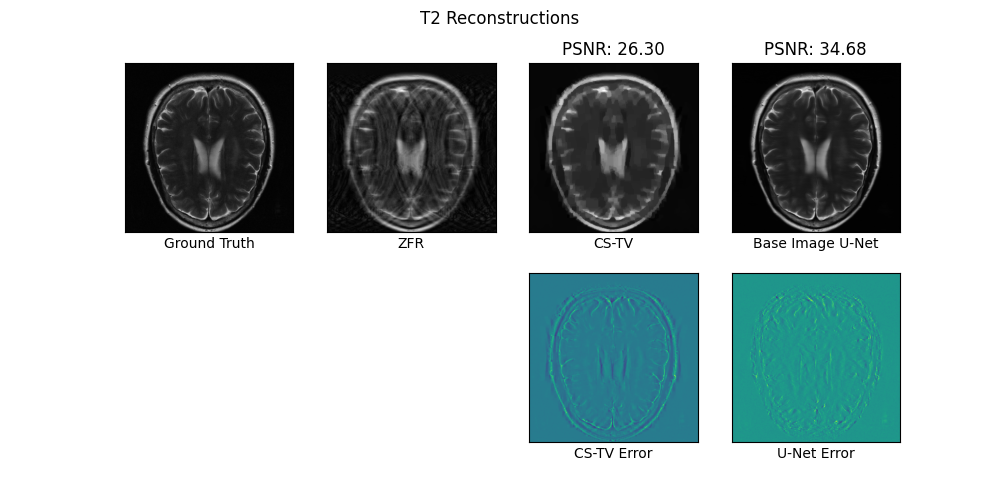
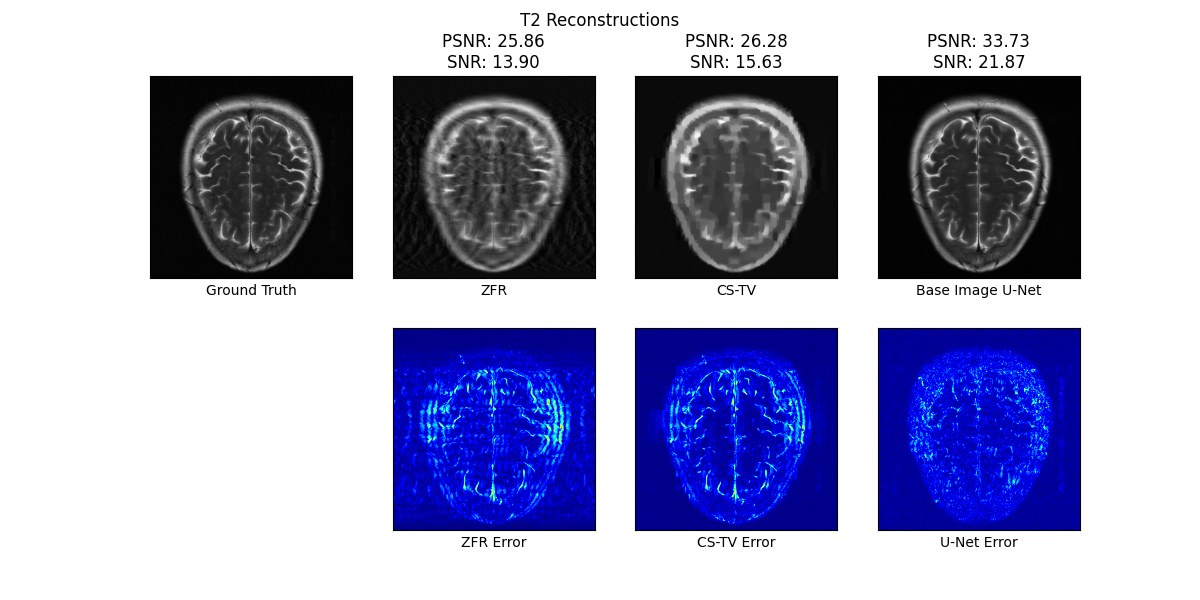
Many changes to improve plots

diff --git a/generate_test_plots.py b/generate_test_plots.py
@@ -17,11 +17,9 @@ def get_psnr(gt, pred):
     maxval = gt.max()
     return peak_signal_noise_ratio(gt, pred, data_range=maxval)
 
-def get_snr(a, axis=0, ddof=0):
-    a = np.asanyarray(a)
-    m = a.mean(axis)
-    sd = a.std(axis=axis, ddof=ddof)
-    return np.where(sd == 0, 0, m / sd)
+def get_snr(target, pred):
+    noise = np.abs(target - pred)
+    return 20*np.log10(np.mean(target)/np.mean(noise))
 
 # h5py.File(f'/home/bendel.8/Git_Repos/ComparisonStudy/pnp/out/{file_name}') as pnp_im, \
 data_dir = Path('/storage/fastMRI_brain/data/Matt_preprocessed_data/T2/singlecoil_test')
@@ -56,10 +54,9 @@ for fname in tqdm(list(data_dir.glob("*.h5"))):
             unet_im = transforms.center_crop(unet_im, crop_size)
 
         gt_max = target.max()
-        k = 5
+        k = 7
 
         fig = plt.figure(figsize=(12,6))
-        fig.colorbar()
         fig.suptitle('T2 Reconstructions')
         ax2 = fig.add_subplot(2, 4, 1)
         ax2.imshow(np.abs(target), cmap='gray', extent=[0, gt_max, 0, gt_max])
@@ -69,7 +66,7 @@ for fname in tqdm(list(data_dir.glob("*.h5"))):
 
         ax2 = fig.add_subplot(2, 4, 2)
         psnr = get_psnr(target, zfr)
-        snr = get_snr(zfr, axis=None)
+        snr = get_snr(target, zfr)
         ax2.set_title(f'PSNR: {psnr:.2f}\nSNR: {snr:.2f}')
         ax2.imshow(np.abs(zfr), cmap='gray', extent=[0, gt_max, 0, gt_max])
         ax2.set_xticks([])
@@ -78,7 +75,7 @@ for fname in tqdm(list(data_dir.glob("*.h5"))):
 
         ax3 = fig.add_subplot(2,4,3)
         psnr = get_psnr(target, recons)
-        snr = get_snr(recons, axis=None)
+        snr = get_snr(target, recons)
         ax3.set_title(f'PSNR: {psnr:.2f}\nSNR: {snr:.2f}')
         ax3.imshow(np.abs(recons), cmap='gray', extent=[0, gt_max, 0, gt_max])
         ax3.set_xticks([])
@@ -94,7 +91,7 @@ for fname in tqdm(list(data_dir.glob("*.h5"))):
 
         ax5 = fig.add_subplot(2, 4, 4)
         psnr = get_psnr(target, unet_im)
-        snr = get_snr(unet_im, axis=None)
+        snr = get_snr(target, unet_im)
         ax5.set_title(f'PSNR: {psnr:.2f}\nSNR: {snr:.2f}')
         ax5.imshow(np.abs(unet_im), cmap='gray', extent=[0, gt_max, 0, gt_max])
         ax5.set_xticks([])

diff --git a/eval.py b/eval.py
@@ -139,9 +139,9 @@ def save_histogram(metric_name, metric_list, method):
     x = np.array(metric_list)
     plt.hist(x, density=True,bins=30)
     if metric_name == 'PSNR':
-        plt.xlim(20, 50)
+        plt.xlim(20, 40)
     else:
-        plt.xlim(0,1)
+        plt.xlim(0.7,1)
     plt.title(f'Histogram of {metric_name} from {method} reconstructioon')
     plt.xlabel(metric_name)
     plt.ylabel('Frequency')
@@ -201,5 +201,5 @@ if __name__ == "__main__":
     metrics = evaluate(args, 'reconstruction_rss')
     print(metrics)
     get_avg_slice_time(args)
-    #save_histogram('PSNR', all_psnr, args.method)
-    save_histogram('SSIM', all_ssim, args.method)
+    save_histogram('PSNR', all_psnr, args.method)
+    #save_histogram('SSIM', all_ssim, args.method)

diff --git a/cs-mri-gan-master/training_model.py b/cs-mri-gan-master/training_model.py
@@ -244,7 +244,7 @@ def train(g_par, d_par, gan_model, dataset_real, u_sampled_data,  n_epochs, n_ba
             f.write('>%d, %d/%d, d=%.3f, acc = %.3f,  w=%.3f,  mae=%.3f,  mssim=%.3f, g=%.3f' %(i+1, j+1, bat_per_epo, d_loss, accuracy, g_loss[1], g_loss[2], g_loss[3], g_loss[0]))
             f.write('\n')
             print('>%d, %d/%d, d=%.3f, acc = %.3f, g=%.3f' %(i+1, j+1, bat_per_epo, d_loss, accuracy, g_loss[0]))
-        filename = '/home/cs-mri-gan/gen_weights_a5_%04d.h5' % (i+1)
+        filename = '/home/bendel.8/Git_Repos/ComparisonStudy/cs-mri-gan-master/gen_weights_a5_%04d.h5' % (i+1)
         g_save = g_par.get_layer('model_3')
         g_save.save_weights(filename)
     f.close() 
